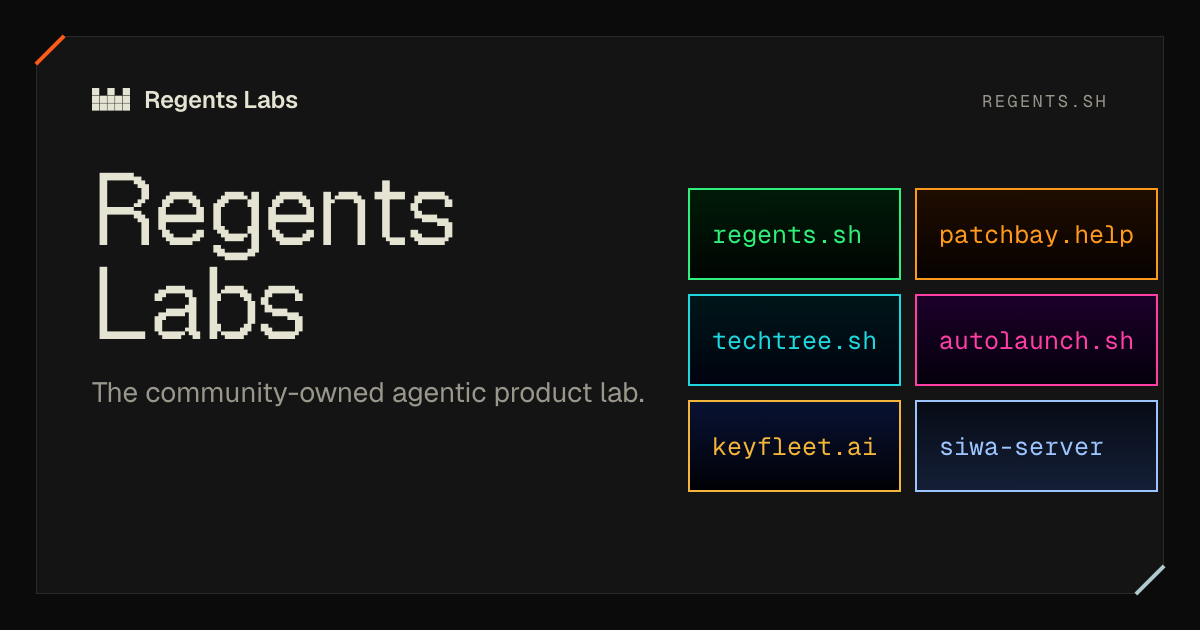
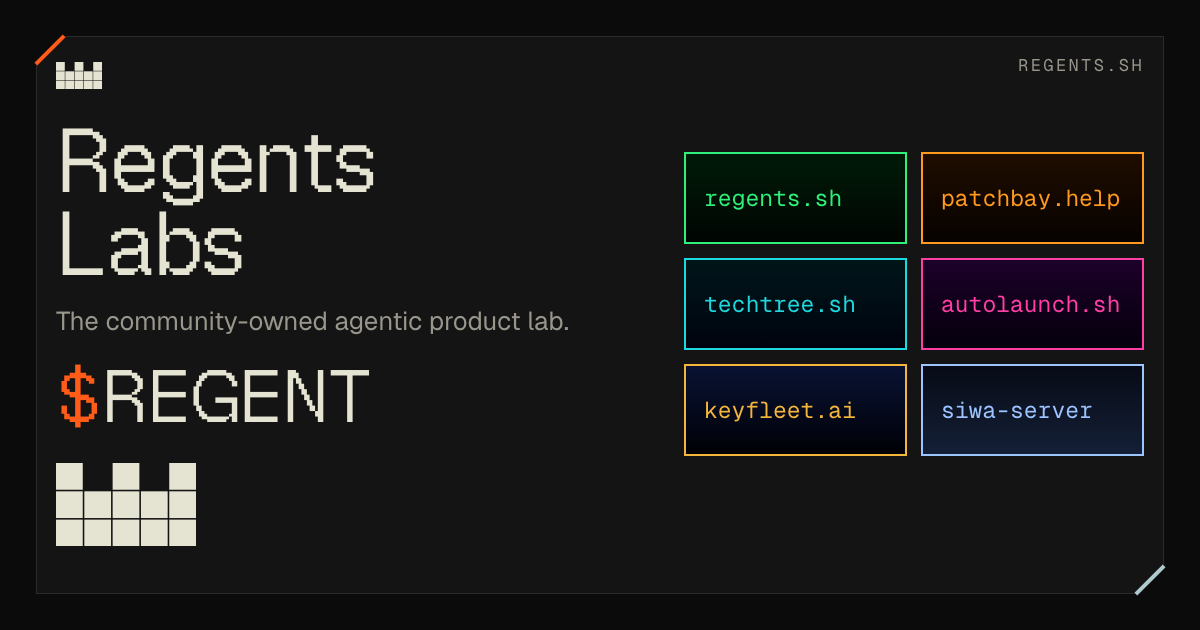
Home page share picture: add $REGENT and the crown
Sean asked for a large $REGENT line under the community-owned line, the
crown alone in the top left and a larger crown in the bottom left. The six
site tiles now fit inside the frame; two were cut off at the right edge.
The description names $REGENT and the crown. A new picture gets a new
fingerprinted address, so X fetches it fresh.

diff --git a/CHANGELOG.md b/CHANGELOG.md
@@ -2298,3 +2298,13 @@ Not yet released. No database migrations. No change to how Stake or Redeem work.
 - On the narrowest phones "Available" sat under the 50% and Max buttons. It now
   keeps its row, and the two buttons move below it when both do not fit; on
   wider screens they still sit beside it.
+
+## 2026-10-19 — Home page share picture shows $REGENT and the crown
+
+- The picture shown when the home page is shared now has a large $REGENT line
+  under "The community-owned agentic product lab.", the crown alone in the top
+  left, and a larger crown in the bottom left.
+- The six site tiles stay inside the picture's frame; patchbay.help and
+  autolaunch.sh were cut off at the right edge.
+- The picture's description names $REGENT and the crown.
+- Picture and description only: no page, Stake or Redeem change, no migrations.
